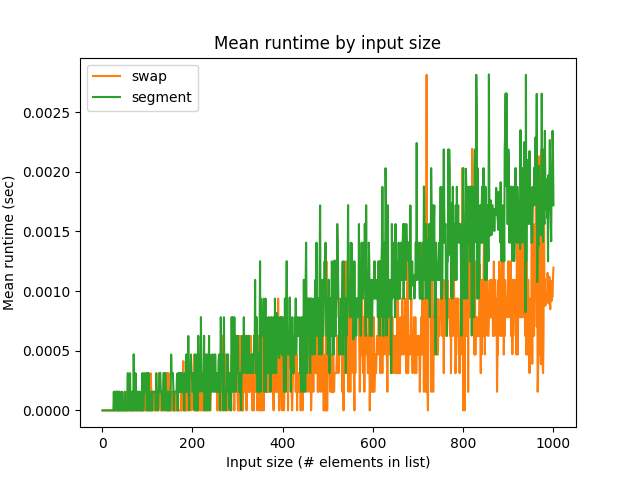
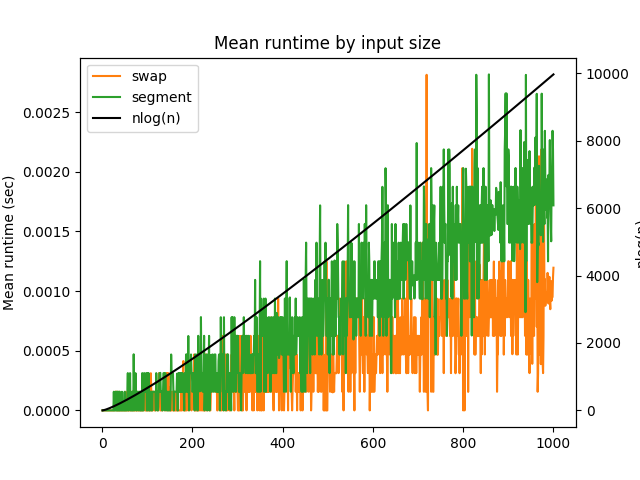
modified

diff --git a/code/graph.py b/code/graph.py
@@ -2,26 +2,27 @@ import pandas
 from matplotlib import pyplot
 from numpy import log2
 
+fig, axis1 = pyplot.subplots()
+
 data = pandas.read_csv('swap.csv').groupby('input')['time'].mean()
-pyplot.plot(data.index, data.values, color = 'C1', label = 'swap')
+axis1.plot(data.index, data.values, color = 'C1', label = 'swap')
 
 data = pandas.read_csv('segment.csv').groupby('input')['time'].mean()
-pyplot.plot(data.index, data.values, color = 'C2', label = 'segment')
+axis1.plot(data.index, data.values, color = 'C2', label = 'segment')
+
+axis2 = axis1.twinx()
+x = range(1, 1001)
+
+axis2.plot(x, x * log2(x), color = 'black', label = 'nlog(n)')
 
 pyplot.title('Mean runtime by input size')
 pyplot.xlabel('Input size (# elements in list)')
-pyplot.ylabel('Mean runtime (sec)')
-pyplot.legend()
+axis1.set_ylabel('Mean runtime (sec)')
+axis2.set_ylabel('nlog(n)')
+
+lines, labels = axis1.get_legend_handles_labels()
+lines2, labels2 = axis2.get_legend_handles_labels()
+
+pyplot.legend(lines + lines2, labels + labels2)
 
 pyplot.savefig('fig.png')
-
-pyplot.clf()
-
-x = range(0, 1001)
-
-pyplot.plot(x, (x * log2(x)), color = 'black')
-pyplot.title('nlog(n)')
-pyplot.xlabel('Input size (# elements in list)')
-pyplot.ylabel('Mean runtime')
-
-pyplot.savefig('O.png')

diff --git a/README.md b/README.md
@@ -8,4 +8,4 @@ Comparing the runtimes of 2 different Quicksort implementations.
 
 2. Run `quicksort_segment.py`, this will save `segment.csv` which contains the runtimes of 100,000 lists of length 1 to 1000 sorted using the quicksort method as taught by Prof. Tseng of Clark University.
 
-3. Run `graph.py`, this will save `fig.png` and `O.png`, the former being a graph of the relationship between list size and runtime and the latter being a graph of $n \log n$ (the runtime of quicksort).
+3. Run `graph.py` this will produce and save `fig.png` which graphs the mean runtimes of each quicksort by the size of the input along side the theoretical runtime of $\cal{O}(n \log(n))$.
